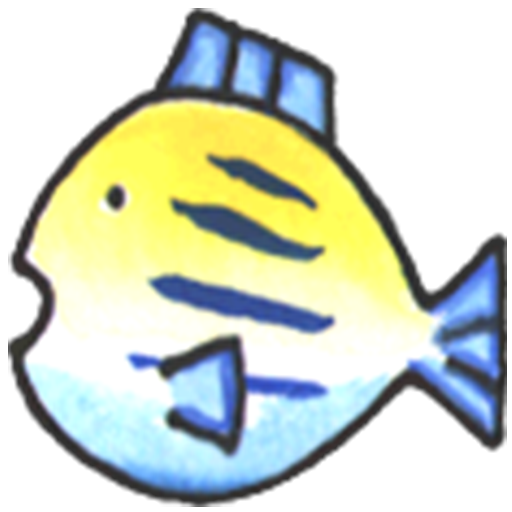
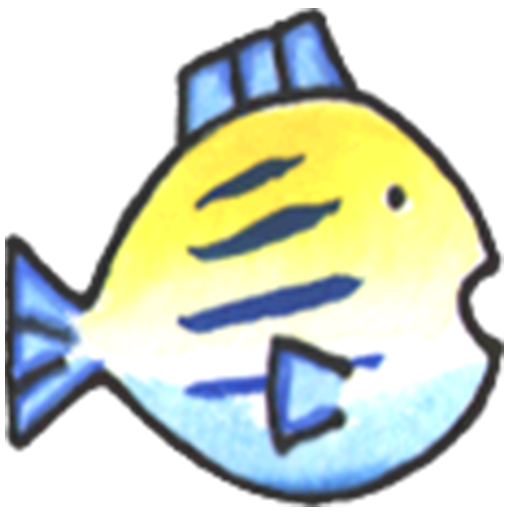
Began Implementation of Fish Movement
Rotation does not occur after random interval yet; translation post-rotation is calculated from origin rather than previous position :(

diff --git a/main-scene.js b/main-scene.js
@@ -10,13 +10,14 @@ class Assignment_Three_Scene extends Scene_Component
         const r = context.width/context.height;
         context.globals.graphics_state.projection_transform = Mat4.perspective( Math.PI/4, r, .1, 1000 );
 
-        const shapes = { box:   new Cube(),
-                         plane: new Square(),
+        const shapes = { box:       new Cube(),
+                         plane:     new Square(),
+                         sphere4:   new Subdivision_Sphere(4),
                        }
         this.submit_shapes( context, shapes );
 
         this.materials =
-          { phong:          context.get_instance( Phong_Shader ).material( Color.of( 1,1,0,1 ) ),
+          { phong:          context.get_instance( Phong_Shader ).material( Color.of( 0,0,1,1 ) ),
             king_Fish:      context.get_instance( Phong_Shader ).material( Color.of(0,0,0,1), { ambient: 1, texture: context.get_instance( "assets/King_Of_The_Pond.png", false ) } ),
             mystery_Fish:   context.get_instance( Phong_Shader ).material( Color.of(0,0,0,1), { ambient: 1, texture: context.get_instance( "assets/Mystery_Fish.png", false ) } ),
             plain_Fish:     context.get_instance( Phong_Shader ).material( Color.of(0,0,0,1), { ambient: 1, texture: context.get_instance( "assets/Plain_Ol_Fish.png", false ) } ),
@@ -26,9 +27,6 @@ class Assignment_Three_Scene extends Scene_Component
           }
 
         this.lights = [ new Light( Vec.of( -5,5,5,1 ), Color.of( 0,1,1,1 ), 100000 ) ];
-
-        this.isRotating = false; 
-        this.lastt = 0; 
 
         this.king_Fish_Matrix = Mat4.identity(); 
         this.king_Fish_Matrix = this.king_Fish_Matrix.times( Mat4.scale([2, .5, 2]));
@@ -51,24 +49,46 @@ class Assignment_Three_Scene extends Scene_Component
 
         this.nibbler_Matrix = Mat4.identity(); 
         this.nibbler_Matrix = this.nibbler_Matrix.times( Mat4.translation([9, 2, 0]))
-                                                 .times( Mat4.scale([.5, .5, .5]));
-      }
+                                                 .times( Mat4.scale([.5, .5, .5]));         
 
-    start_stop() 
-      { 
-        this.isRotating = !this.isRotating; 
+        this.pond_Matrix = Mat4.identity();
+        this.pond_Matrix = this.pond_Matrix.times( Mat4.translation([0, 0, -1]))
+                                           .times( Mat4.scale([10, 10, .01]));  
+
+        //this.rand;            
       }
 
     make_control_panel()
       { 
-        this.key_triggered_button( "Start/Stop Rotation", [ "c" ], this.start_stop );
+        //this.key_triggered_button( "Start/Stop Rotation", [ "c" ], this.start_stop );
       }
 
     display( graphics_state )
       { graphics_state.lights = this.lights;        
         const t = graphics_state.animation_time / 1000, dt = graphics_state.animation_delta_time / 1000;
         
-        this.shapes.plane.draw( graphics_state, this.king_Fish_Matrix,          this.materials.king_Fish           );
+        let model_transform = Mat4.identity();
+
+        this.shapes.sphere4.draw( graphics_state, this.pond_Matrix, this.materials.phong);
+        
+        var king_Fish_Timer = 0;
+        var denominator = Math.floor(t%10) + 1;
+
+        if( Math.abs((0.5) * t % 100 * Math.cos(king_Fish_Rad)) > 8 ||  Math.abs((0.5) * t % 100 * Math.sin(king_Fish_Rad)) > 8)
+        {
+            denominator = (Math.random() * 11) + 1;
+        }       
+        
+        //if( Math.floor((t % 10) + king_Fish_Timer) > 8)
+        //{   
+            var king_Fish_Rad = 2 * Math.PI / denominator;
+            model_transform = model_transform.times( Mat4.translation([(0.5) * t % 100 * Math.cos(king_Fish_Rad), (0.5) * t % 100 * Math.sin(king_Fish_Rad), 0]));
+            model_transform = model_transform.times( Mat4.rotation( king_Fish_Rad, Vec.of(0, 0, 1)))
+                                             .times( Mat4.scale([2, .5, 2]));
+
+            this.shapes.plane.draw( graphics_state, model_transform, this.materials.king_Fish);  
+        //}
+
         this.shapes.plane.draw( graphics_state, this.mystery_Fish_Matrix,       this.materials.mystery_Fish        );
         this.shapes.plane.draw( graphics_state, this.plain_Fish_Matrix,         this.materials.plain_Fish          );
         this.shapes.plane.draw( graphics_state, this.small_Fry_Matrix,          this.materials.small_Fry           );

diff --git a/README.md b/README.md
@@ -1,9 +1,11 @@
 # Term Project Group 47
 
 Group Members:
+
 Bradley Zhu
 Jeffrey Zhu
 Tian Ye
 
 Project Proposal:
+
 Fishing Game
